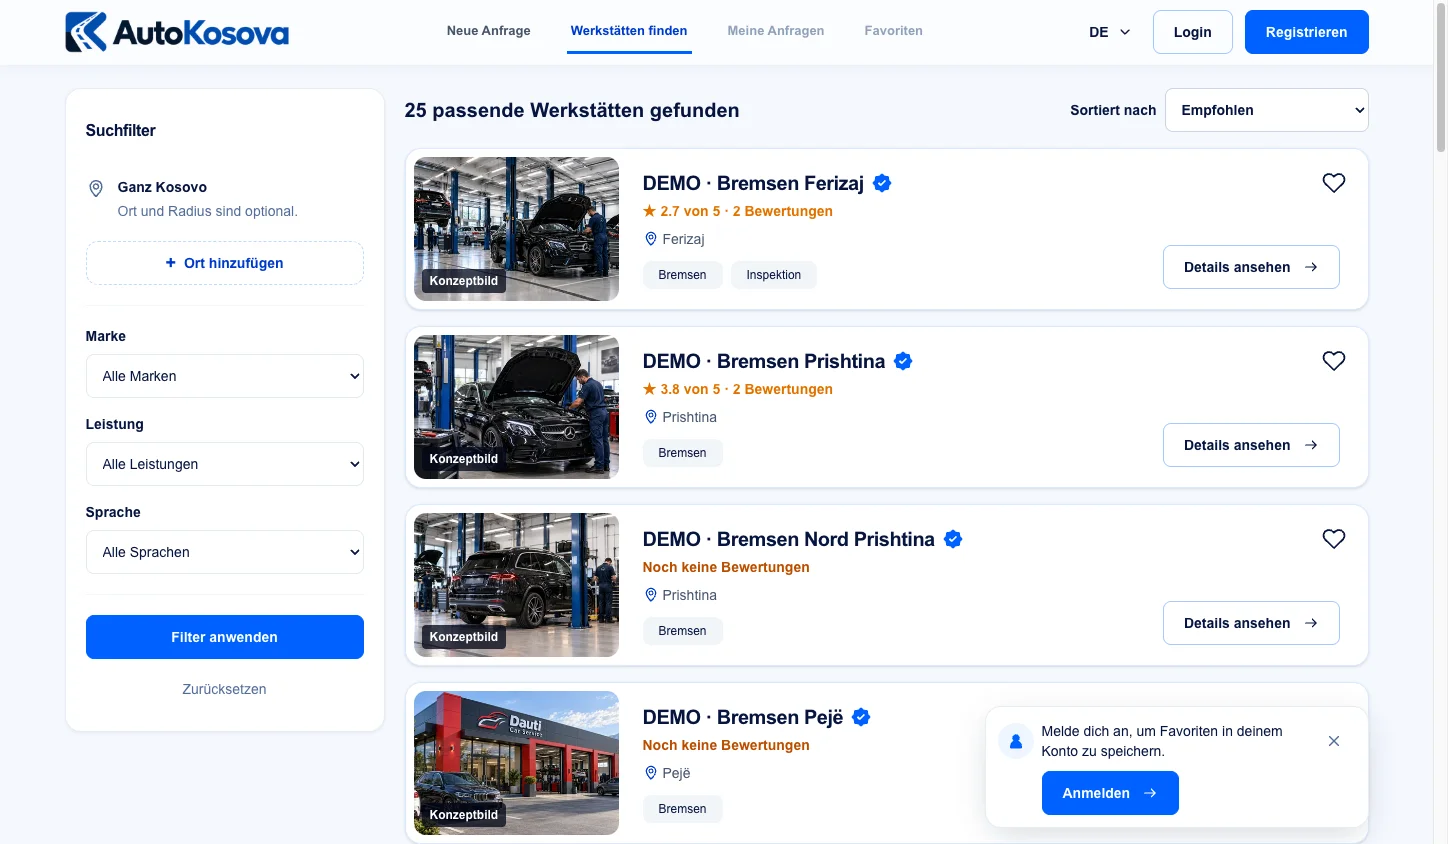
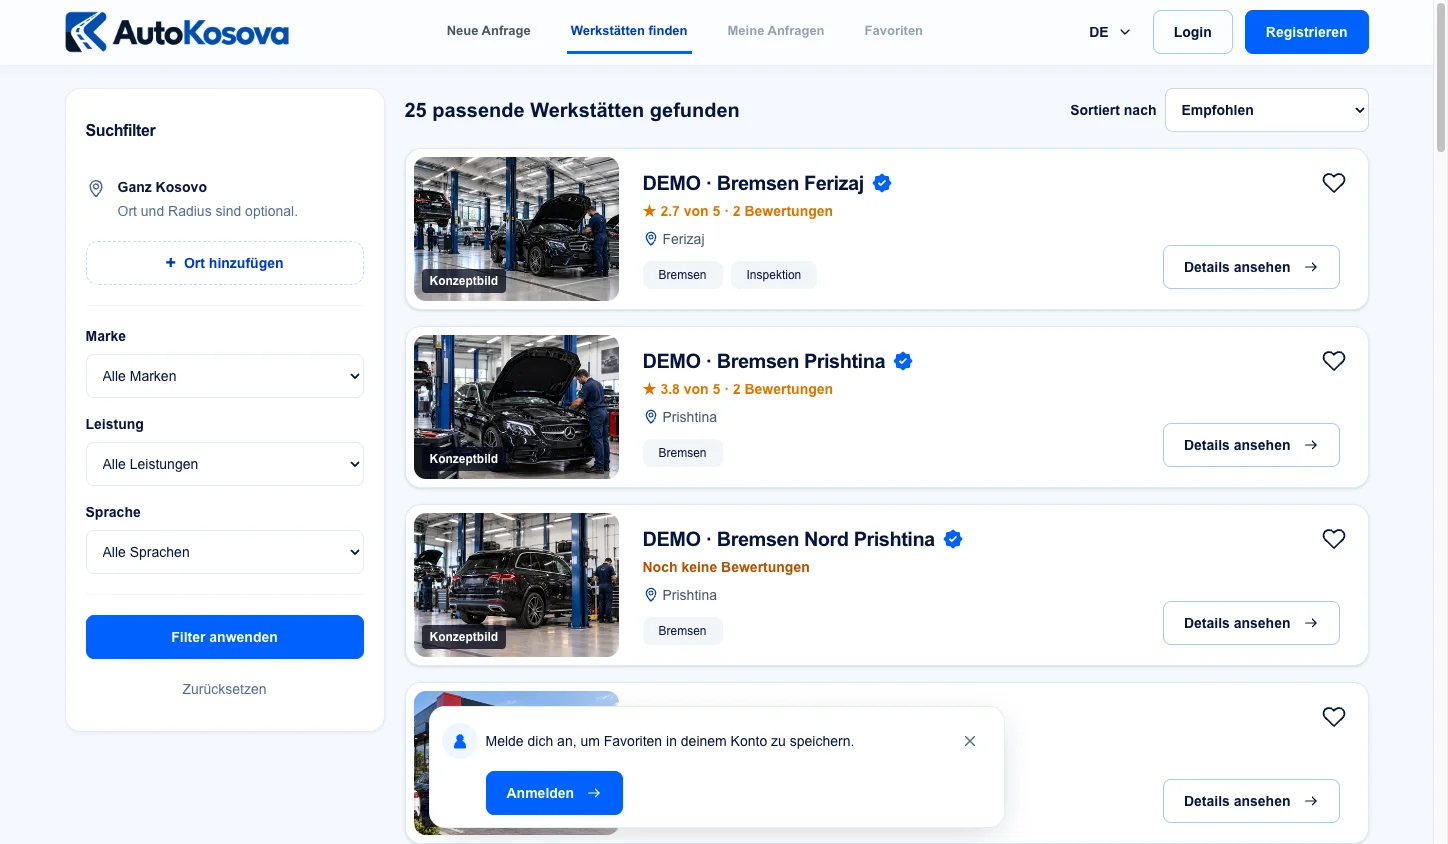
style: center and widen favorite notifications (#43)

Changed region(s): [[0.2797, 0.8318, 0.6526, 0.9858], [0.6837, 0.8626, 0.9012, 0.9858], [0.9012, 0.8318, 0.9323, 0.8626]]

diff --git a/src/app/search-handoff.component.ts b/src/app/search-handoff.component.ts
@@ -463,11 +463,11 @@ interface Area {
     }
     @if (favorites.message(); as message) {
       <div
-        class="pointer-events-none fixed right-0 bottom-[max(1rem,env(safe-area-inset-bottom))] left-0 z-50 mx-auto flex w-[calc(100%_-_1.5rem)] max-w-[1352px] justify-end px-4 sm:px-6 lg:w-[calc(100%_-_4rem)]"
+        class="pointer-events-none fixed right-0 bottom-[max(1rem,env(safe-area-inset-bottom))] left-0 z-50 mx-auto flex w-[calc(100%_-_1.5rem)] max-w-[1352px] justify-center px-4 sm:px-6 lg:w-[calc(100%_-_4rem)]"
       >
         <div
           [attr.role]="message === 'error' ? 'alert' : 'status'"
-          class="pointer-events-auto flex w-full max-w-sm items-start gap-2 rounded-2xl border border-slate-200/80 bg-white p-3 text-sm text-ink shadow-[0_8px_32px_-8px_rgba(7,20,62,0.22)]"
+          class="pointer-events-auto flex w-full max-w-xl items-start gap-2 rounded-2xl border border-slate-200/80 bg-white p-3 text-sm text-ink shadow-[0_8px_32px_-8px_rgba(7,20,62,0.22)]"
         >
           <span
             class="mt-1 flex size-9 shrink-0 items-center justify-center rounded-full"

diff --git a/docs/design/evidence/issue-43/README.md b/docs/design/evidence/issue-43/README.md
@@ -92,6 +92,6 @@ Navbar-Inhalt und Suchinhalt teilen exakt dieselben Außenkanten: bei allen vier
 
 ## Kompakte Favoriten-Hinweise
 
-Toasts sind maximal 384 px breit und rechts am Inhaltsraster ausgerichtet. Status-Icon, 14-px-Text und Schließen-Button bilden eine gemeinsame Zeile; der Gast-Hinweis enthält einen Anmelden-Button. Mobile Seitenabstände und Safe Area bleiben berücksichtigt. Fehler werden als Alert angekündigt, andere Hinweise als Status.
+Toasts sind maximal 576 px breit und unten mittig positioniert. Status-Icon, 14-px-Text und Schließen-Button bilden eine gemeinsame Zeile; der Gast-Hinweis enthält einen Anmelden-Button. Mobile Seitenabstände und Safe Area bleiben berücksichtigt. Fehler werden als Alert angekündigt, andere Hinweise als Status.
 
 [Echter Gast-Hinweis Desktop](toast-login-1448.webp), [Mobil 360](toast-login-360.webp). Die Zustände [Gespeichert](toast-saved-fixture.webp), [Entfernt](toast-removed-fixture.webp) und [Fehler](toast-error-fixture.webp) wurden für diese reine Darstellungsprüfung mit simulierten API-Antworten aufgenommen; der echte OIDC-/Persistenznachweis ist separat oben dokumentiert. Schließen und Anmelden-Link sind bedienbar, keine horizontalen Überläufe.
